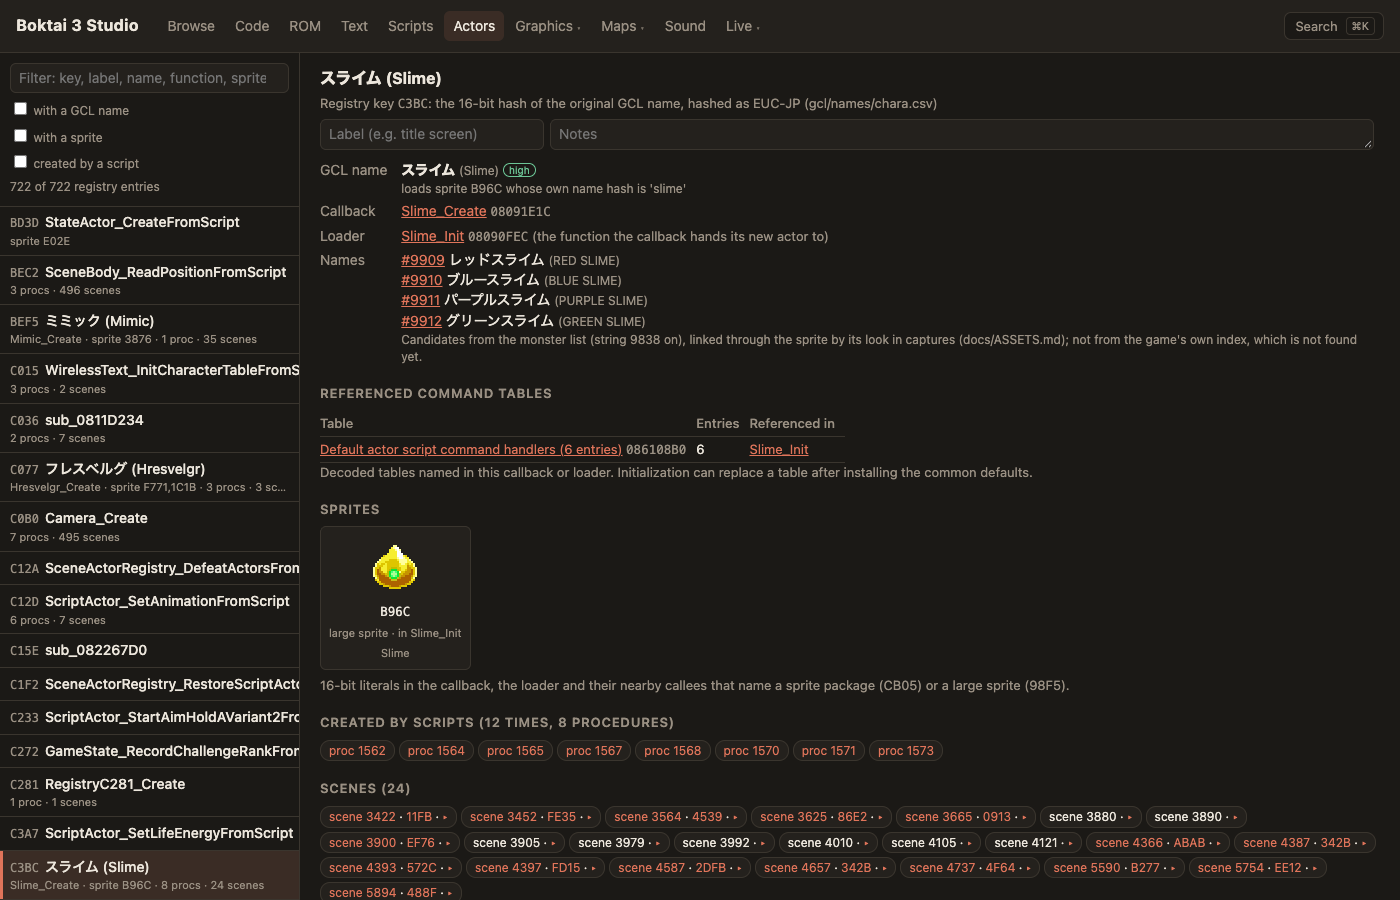
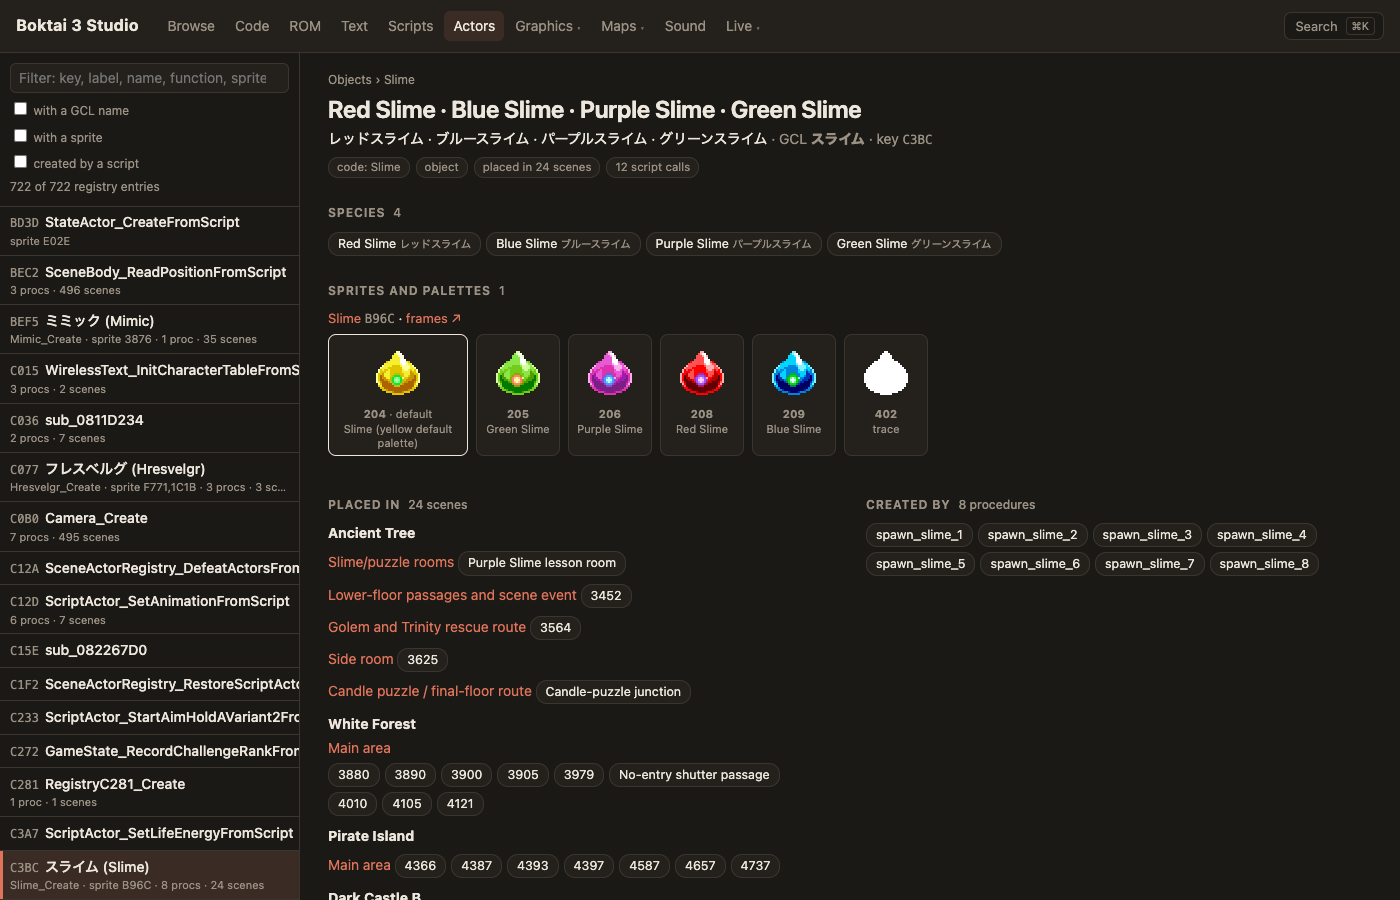
Studio: one page per object; Actors shows Browse's
The Actors view and Browse each had their own page for a registry entry,
with different halves of what is known. Browse's object page now also
shows the GCL name with its confidence, evidence and same-hash
alternatives, and the command tables its code loads; Actors keeps its
registry list, filters and decoded tables and shows Browse's page beside
the list (/atlas?embed=1&bare=1, a tree-less embed).

Changed region(s): [[0.215, 0.0622, 0.9521, 0.6533], [0.215, 0.56, 0.9829, 1.0]]

diff --git a/tools/studio/actors.html b/tools/studio/actors.html
@@ -32,6 +32,8 @@ main { display: grid; grid-template-columns: 300px 1fr; height: calc(100vh - 53p
 .row small { display: block; color: var(--muted); font-size: 11px; overflow: hidden; text-overflow: ellipsis; white-space: nowrap; }
 .row.special { font-weight: 500; color: var(--accent); }
 #view { overflow: auto; padding: 14px 20px 40px; min-width: 0; }
+#view.frame { padding: 0; overflow: hidden; }
+#view iframe.obj { display: block; width: 100%; height: 100%; border: 0; }
 h2 { font-size: 16px; margin: 0 0 4px; }
 h3 { font-size: 13px; text-transform: uppercase; letter-spacing: .06em; color: var(--muted); margin: 18px 0 8px; font-weight: 600; }
 .meta { color: var(--muted); font-size: 13px; }
@@ -117,13 +119,9 @@ function renderList() {
   }));
 }
 
-const sceneChip = s => {
-  const sc = scenes[s] || {};
-  return `<span class="chip">${sc.shot ? peekLink('/captures#scene_' + String(s).padStart(4, '0'), 'scene ' + s) : 'scene ' + s}${sc.map ? ' · ' + peekLink(gfxHref('map', sc.map), esc(noteOf('map', sc.map)?.label || sc.map)) : ''} · ${procLink(s, '▸')}</span>`;
-};
-
 async function show(key) {
   sel = key;
+  $('view').classList.remove('frame');
   const navKey = key.startsWith('commands:') ? 'commands' : key.startsWith('tables:') ? 'tables' : key;
   document.querySelectorAll('.row').forEach(d => d.classList.toggle('on', d.dataset.key === navKey));
   document.querySelector('.row.on')?.scrollIntoView({ block: 'nearest' });
@@ -133,47 +131,11 @@ async function show(key) {
   if (navKey === 'tables') return showNumericTables(...key.split(':').slice(1));
   const a = byKey[key], v = $('view');
   if (!a) { v.innerHTML = `<div class="empty">No registry entry ${esc(key)}.</div>`; return; }
-  const names = a.names.map(n => `${stringLink(n.id)} ${esc(n.jp)}${en[n.id] ? ` <span class="cand">(${esc(en[n.id])})</span>` : ''}`).join('<br>');
-  const procs = a.procs, unreached = procs.length && !a.scenes.length;
-  const gcl = a.gcl.map((g, i) => `<div${i ? ' class="cand"' : ''}><b>${esc(g.name)}</b>${g.english ? ` <span class="cand">(${esc(g.english)})</span>` : ''} <span class="conf conf-${esc(g.confidence)}">${esc(g.confidence)}</span>${i ? ' <span class="cand">alternative with the same hash</span>' : ''}<div class="cand">${esc(g.evidence)}</div></div>`).join('');
-  v.innerHTML = `<h2></h2><div class="meta">Registry key <code>${a.key}</code>: the 16-bit hash of the original GCL name, hashed as EUC-JP (gcl/names/chara.csv)</div>
-    <div id="ned"></div>
-    <dl>
-      <dt>GCL name</dt><dd>${gcl || '<span class="empty">not recovered yet (<code>tools/assets/gclnames.py crack chara</code> lists leads)</span>'}</dd>
-      <dt>Callback</dt><dd>${codeLink(a.callback, a.callback_name)} <span class="mono meta">${a.callback}</span></dd>
-      <dt>Loader</dt><dd>${a.loader ? `${codeLink(a.loader, a.loader_name)} <span class="mono meta">${a.loader}</span> <span class="meta">(the function the callback hands its new actor to)</span>` : '<span class="empty">none (the callback does not allocate an actor and pass it on)</span>'}</dd>
-      <dt>Names</dt><dd>${names || '<span class="empty">no name from the game linked yet</span>'}${a.names.length ? `<div class="cand">Candidates from the monster list (string 9838 on), linked through the sprite by its look in captures (docs/ASSETS.md); not from the game's own index, which is not found yet.</div>` : ''}</dd>
-    </dl>
-    ${commandReferences(a)}
-    <h3>Sprites</h3>${a.sprites.length ? `<div class="sprites" id="sprites"></div><div class="meta" style="margin-top:6px">16-bit literals in the callback, the loader and their nearby callees that name a sprite package (CB05) or a large sprite (98F5).</div>` : '<div class="empty">No sprite named in the callback or loader.</div>'}
-    <h3>Created by scripts (${a.spawns} time${a.spawns === 1 ? '' : 's'}, ${procs.length} procedure${procs.length === 1 ? '' : 's'})</h3>
-    ${procs.length ? `<div class="chips">${procs.map(p => `<span class="chip">${procLink(p)}</span>`).join('')}</div>` : '<div class="empty">No script creates it (engine-only, or created by code).</div>'}
-    <h3>Scenes (${a.scenes.length})</h3>
-    ${a.scenes.length ? `<div class="chips">${a.scenes.map(sceneChip).join('')}</div><div class="meta" style="margin-top:6px">Scenes whose entry procedure reaches one of these procedures through calls.</div>`
-      : unreached ? '<div class="empty">None found: these procedures have no script callers (they are started by the engine or stage data, not by a call).</div>' : '<div class="empty">None.</div>'}`;
-  v.querySelector('h2').textContent = title(a);
-  $('ned').replaceWith(noteEditor('actor', a.key, () => { v.querySelector('h2').textContent = title(a); renderList(); }));
-  const box = $('sprites');
-  for (const s of a.sprites) {
-    const el = document.createElement('a'); el.className = 'spr'; el.href = gfxHref(s.kind, s.hash); el.dataset.peek = '';
-    el.innerHTML = `<div class="pic"></div><span class="mono">${s.hash}</span><small>${s.kind === 'big' ? 'large sprite' : 'sprite package'} · in ${esc(s.in)}</small>`;
-    const lab = noteOf(s.kind === 'big' ? 'big' : 'spr', s.hash)?.label;
-    if (lab) el.insertAdjacentHTML('beforeend', `<small>${esc(lab)}</small>`);
-    box.appendChild(el);
-    spriteThumb(s.kind, s.hash, 64).then(cv => cv && el.querySelector('.pic').appendChild(cv)).catch(() => {});
-  }
-}
-
-function commandReferences(a) {
-  const refs = (a.command_tables || []).filter(r => commandTables[r.table]);
-  if (!refs.length) return '';
-  return `<h3>Referenced command tables</h3>
-    <table><tr><th>Table</th><th>Entries</th><th>Referenced in</th></tr>${refs.map(r => {
-      const t = commandTables[r.table];
-      return `<tr><td><a href="#commands:${t.addr}">${esc(t.description || t.name)}</a> <span class="mono meta">${t.addr}</span></td>
-        <td>${t.entries.length}</td><td>${r.in.map(f => codeLink(f.addr, f.name)).join(', ')}</td></tr>`;
-    }).join('')}</table>
-    <div class="meta">Decoded tables named in this callback or loader. Initialization can replace a table after installing the common defaults.</div>`;
+  // one page per object, Browse's (tools/studio/atlas.html), shown here beside the registry list
+  v.classList.add('frame');
+  const f = v.querySelector('iframe.obj');
+  if (f) f.contentWindow.location.hash = 'actor:' + a.key;
+  else v.innerHTML = `<iframe class="obj" src="/atlas?embed=1&bare=1#actor:${a.key}" title="${esc(title(a))}"></iframe>`;
 }
 
 function showCommandTables(addr) {

diff --git a/tools/studio/atlas.html b/tools/studio/atlas.html
@@ -22,6 +22,9 @@ a { color: var(--accent); text-decoration: none; }
 a:hover { text-decoration: underline; }
 button, input { font: inherit; color: var(--ink); background: var(--panel); border: 1px solid var(--line); border-radius: 6px; padding: 4px 8px; }
 main { display: grid; grid-template-columns: 300px 1fr; height: calc(100vh - 53px); }
+/* ?embed=1&bare=1: one page without the tree, for views that show it beside their own list */
+body.bare main { grid-template-columns: 1fr; }
+body.bare #side { display: none; }
 #side { border-right: 1px solid var(--line); display: flex; flex-direction: column; min-height: 0; background: var(--panel); }
 #side .tools { padding: 10px; border-bottom: 1px solid var(--line); }
 #side .tools input { width: 100%; }
@@ -51,6 +54,8 @@ h3 .n { font-weight: 500; letter-spacing: 0; text-transform: none; }
 .lede { font-size: 15px; margin: 12px 0 0; max-width: 760px; }
 .empty { color: var(--muted); }
 .mono, code { font-family: ui-monospace, Menlo, monospace; font-size: 12.5px; }
+.gcl { margin: 4px 0 8px; }
+.gcl.alt { opacity: .8; }
 .grid2 { display: grid; grid-template-columns: repeat(auto-fit, minmax(320px, 1fr)); gap: 0 32px; }
 .chips { display: flex; flex-wrap: wrap; gap: 5px; }
 .chip { font-size: 12.5px; padding: 2px 9px; border: 1px solid var(--line); border-radius: 11px; background: var(--panel); white-space: nowrap; color: var(--ink); }
@@ -132,6 +137,7 @@ const ICON = { package: '▤', actor: '◆', monster: '☠', char: '☺', item: 
 const KIND = { package: 'sprite', actor: 'object', monster: 'monster', char: 'character', item: 'item', area: 'area', scene: 'scene', file: 'script', sprite: 'sprite', unit: 'code', tileset: 'tileset', bgtiles: 'map tiles', song: 'song', cut: 'cutscene', beat: 'story beat' };
 const href = id => '#' + id;
 const link = (id, text) => E[id] ? `<a href="${href(id)}">${esc(text ?? E[id].title)}</a>` : esc(text ?? id);
+if (new URLSearchParams(location.search).has('bare')) document.body.classList.add('bare');
 const chip = (id, text, extra = '') => E[id] ? `<a class="chip" href="${href(id)}">${esc(text ?? E[id].title)}${extra}</a>` : '';
 const label = e => e.short && e.kind === 'area' ? e.short : e.title;
 
@@ -215,6 +221,15 @@ function crumbs(path) {
   if (!path) return '';
   const parts = path.split('/');
   return `<div class="crumbs">${parts.map((p, i) => `<a href="#node:${esc(parts.slice(0, i + 1).join('/'))}">${esc(p)}</a>`).join(' › ')}</div>`;
+}
+// the original GCL name behind the registry key (gcl/names/chara.csv): the
+// best reading, how sure it is and why, and other names with the same hash
+function gclNames(e) {
+  const g = e.gcl || [];
+  const row = (x, alt) => `<div class="gcl${alt ? ' alt' : ''}"><b>${esc(x.name)}</b>${x.english ? ` <span class="muted">${esc(x.english)}</span>` : ''}
+    ${x.confidence ? badge(esc(x.confidence)) : ''}${alt ? ' <span class="muted">another name with the same hash</span>' : ''}${x.evidence ? `<div class="muted">${esc(x.evidence)}</div>` : ''}</div>`;
+  return `<h3>GCL name <span class="n">the 16-bit hash of the script's name for it, as EUC-JP</span></h3>
+    ${g.length ? g.map((x, i) => row(x, i > 0)).join('') : `<div class="empty">Not recovered yet for key <span class="mono">${esc(e.key)}</span> (<code>tools/assets/gclnames.py crack chara</code> lists leads).</div>`}`;
 }
 function head(e, sub = '', badges = []) {
   return `${crumbs(e.path || (E[e.area]?.path ? E[e.area].path + '/' + E[e.area].short : ''))}<h1 class="t">${esc(e.title)}</h1>${sub ? `<div class="sub">${sub}</div>` : ''}${badges.length ? `<div class="badges">${badges.join('')}</div>` : ''}`;
@@ -378,6 +393,9 @@ const PAGES = {
       ${resources(e)}
       <div class="grid2"><div><h3>Placed in <span class="n">${e.nscenes} scenes</span></h3>${placement(e)}</div>
       <div><h3>Created by <span class="n">${e.procs.length} procedures</span></h3>${e.procs.length ? `<div class="chips">${e.procs.map(p => `<a class="chip" href="/scripts#${p.id}" data-peek>${esc(p.name || 'proc ' + p.id)}</a>`).join('')}</div>` : '<div class="empty">No script creates it.</div>'}</div></div>
+      ${gclNames(e)}
+      ${e.command_tables?.length ? `<h3>Command tables <span class="n">${e.command_tables.length}</span></h3><div class="chips">${e.command_tables.map(t =>
+        `<a class="chip" href="/actors#commands:${t.table}" data-peek title="loaded by ${esc(t.in.join(', '))}">${esc(t.title)} <small class="mono">${t.table}</small></a>`).join('')}</div>` : ''}
       <h3>Code</h3><div class="muted" style="margin-bottom:8px">Entry ${codeLink(e.callback, e.fname)}${e.loader ? ` → ${codeLink(e.loader, e.loader_name)}` : ''}, and everything it calls or installs.</div><div id="code"></div>
       <h3>Notes</h3><div id="ned"></div></div>`;
   },

diff --git a/tools/studio/atlas.py b/tools/studio/atlas.py
@@ -223,6 +223,7 @@ def build():
 
     # ---- registry entries ----
     A = actors.actors()
+    ctables = actors.command_tables()
     procnames = {int(p): r["name"] for p, r in gclview.names().procs.items()}
     fams = paltrace.families()
     sprite_owner = collections.defaultdict(list)
@@ -302,14 +303,16 @@ def build():
                 sprites.append(s["hash"])
                 sprite_owner[s["hash"]].append(a["key"])
         add(f"actor:{a['key']}", path, kind="actor", key=a["key"], order=int(a["callback"], 16) & ~1,
-            title=title or f"{'Object' if a['loader'] else 'Routine'} {a['key']}", fname=fname, gcl=a["gcl"][:1],
+            title=title or f"{'Object' if a['loader'] else 'Routine'} {a['key']}", fname=fname, gcl=a["gcl"],
             subsystem=sub, allocates=bool(a["loader"]),
             names=[{"id": n["id"], "jp": n["jp"], "en": en.get(n["id"], "")} for n in a["names"]],
             callback=a["callback"], loader=a["loader"], loader_name=a["loader_name"],
             sprites=sprites, effects=[], small=[s["hash"] for s in a["sprites"] if s["kind"] != "big"],
             procs=[{"id": p, "name": procnames.get(p, "")} for p in a["procs"]], spawns=a["spawns"],
             areas={str(k): v for k, v in by_area.items()}, nscenes=len(scenes), shared=shared,
-            reach=len(a["scenes"]), code=code)
+            reach=len(a["scenes"]), code=code,
+            command_tables=[{"table": r["table"], "title": ctables[r["table"]]["description"] or ctables[r["table"]]["name"],
+                             "in": [f["name"] for f in r["in"]]} for r in a.get("command_tables", []) if r["table"] in ctables])
 
     # ---- the game's monster and character lists ----
     for n in actors.name_list(*actors.ENEMY_NAMES):

diff --git a/README.md b/README.md
@@ -145,7 +145,7 @@ order, colored by kind or by how well each byte is understood.
 | ![Maps](docs/img/studio-map.png) | **Maps**: stages with captured palettes, doors, entrances, items, enemies and patrol paths from the stage scripts. |
 | ![World](docs/img/studio-world.png) | **World** (`/world`): how the rooms connect. Scenes grouped into areas by their doors, areas into places by their labels, each place with its rooms, captures and enemies. |
 | ![Scripts](docs/img/studio-scripts.png) | **Scripts**: procedures in a readable view with recovered names, the developers' debug messages and their translations. |
-| ![Actors](docs/img/studio-actors.png) | **Actors**: every object a script can create, with its GCL name, code, sprites and scenes. |
+| ![Actors](docs/img/studio-actors.png) | **Actors**: the script registry, every object a script can create, filterable by GCL name, sprite or use, each shown with its Browse page; plus the decoded command and parameter tables. |
 | ![Screen inspector](docs/img/studio-captures.png) | **Screen inspector** (Live and Captures): every sprite, text box, layer and palette on screen, matched to its resource. Live mode connects to mGBA through [Centaur](docs/CENTAUR.md). |
 
 Also: palette, font and tile viewers, and **Sound** (`/sound`): every song in
